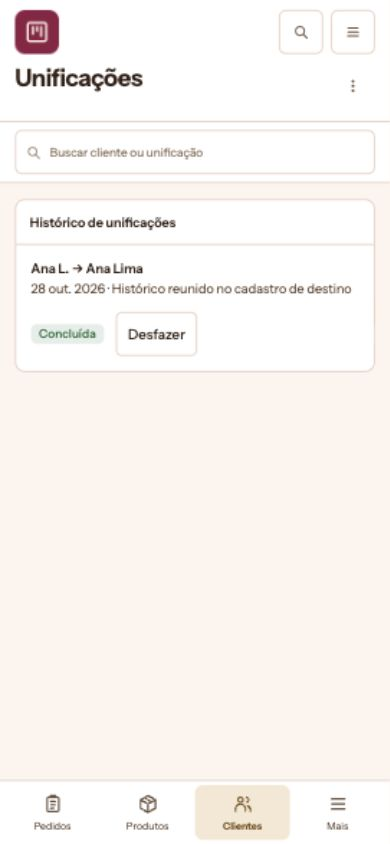
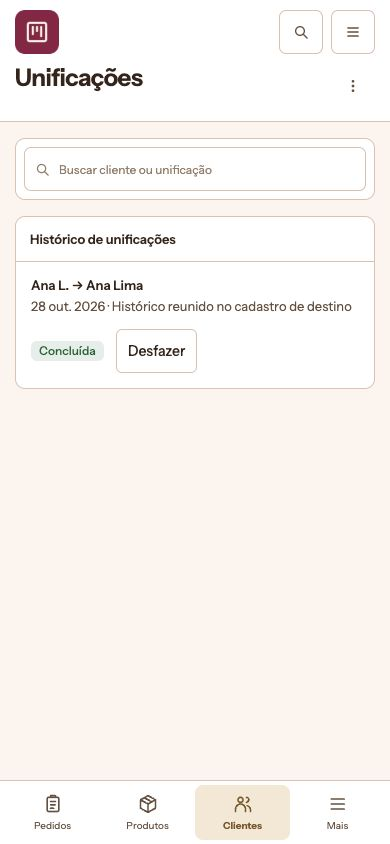
docs: consolidate scrolling search cards and page options in previews

diff --git a/docs/previews/navigation-2026-10-29/preview.js b/docs/previews/navigation-2026-10-29/preview.js
@@ -122,7 +122,7 @@ const state = {
   display:params.get('display')==='grid'?'grid':'list',density:params.get('density')==='compact'?'compact':'comfortable',
   variant:params.get('variant')==='double'?'double':'single',
   view:params.get('view') || (params.get('app')==='compras'?'receiving':'catalog'),
-  toolsFixed:params.get('tools')==='fixed',pageMenu:params.get('pageMenu')==='title'?'title':'header',compareTools:params.get('compareTools')==='1',compareDevice:params.get('device')==='desktop'?'desktop':'mobile',
+  toolsFixed:params.get('tools')==='fixed',pageMenu:params.get('pageMenu')==='header'?'header':'title',compareTools:params.get('compareTools')==='1',compareDevice:params.get('device')==='desktop'?'desktop':'mobile',
   compact:params.has('rail')?params.get('rail')==='compact':params.get('compact')==='1'||matchMedia('(min-width:651px) and (max-width:1100px) and (orientation:landscape)').matches,hidden:params.get('rail')==='hidden',secondary:params.get('options')!=='hidden',
   clean:params.get('clean')==='1',embedded:params.get('embedded')==='1',compare:params.get('compare')==='1'||params.get('compareTools')==='1',
   sort:'name',collection:'all',page:1,localPlacement:params.get('local')==='bottom'?'bottom':'top',desktopQuick:params.get('quick')==='1',desktopDock:params.get('dock')==='1',drawer:false,drawerGroup:null,central:params.get('screen')==='central',trail:null,lastViews:{gestor:'catalog',compras:'receiving'},search:'',filter:'all',closed:new Set(),extraCollections:[],mergeUndone:false,done:new Set(),counted:{},countReasons:{},
@@ -145,7 +145,7 @@ function href(overrides={}){
   const next={toolsFixed:state.toolsFixed,pageMenu:state.pageMenu,compareTools:state.compareTools,compareDevice:state.compareDevice,compact:state.compact,hidden:state.hidden,secondary:state.secondary,adaptive:state.adaptive,display:state.display,density:state.density,app:state.app,variant:state.variant,view:state.view,compare:state.compare,clean:state.clean,embedded:state.embedded,central:state.central,local:state.localPlacement,quick:state.desktopQuick,dock:state.desktopDock,...overrides};
   const q=new URLSearchParams({app:next.app,variant:next.variant,view:next.view,revision:'7b'});
   const scenario=new URLSearchParams(location.search).get('scenario');if(scenario)q.set('scenario',scenario);
-  if(next.toolsFixed)q.set('tools','fixed');if(next.pageMenu==='title')q.set('pageMenu','title');if(next.compareTools)q.set('compareTools','1');if(next.compareTools&&next.compareDevice==='desktop')q.set('device','desktop');q.set('rail',next.hidden?'hidden':next.compact?'compact':'expanded');if(!next.secondary)q.set('options','hidden');
+  if(next.toolsFixed)q.set('tools','fixed');if(next.pageMenu==='header')q.set('pageMenu','header');if(next.compareTools)q.set('compareTools','1');if(next.compareTools&&next.compareDevice==='desktop')q.set('device','desktop');q.set('rail',next.hidden?'hidden':next.compact?'compact':'expanded');if(!next.secondary)q.set('options','hidden');
   if(next.adaptive)q.set('layout','adaptive');if(next.display==='grid')q.set('display','grid');if(next.density==='compact')q.set('density','compact');
   if(next.local==='bottom')q.set('local','bottom');if(next.quick)q.set('quick','1');if(next.dock)q.set('dock','1');
   if(next.clean)q.set('clean','1');if(next.compare)q.set('compare','1');if(next.embedded)q.set('embedded','1');if(next.central)q.set('screen','central');
@@ -233,7 +233,7 @@ function renderSupportBars(){
   $('#app').dataset.view=state.view;
 }
 function showComposition(){
-  openDialog('Composição da página',`<p>Cada faixa tem um trabalho. A navegação rápida leva ao mesmo destino em A e B; a troca de assuntos fica na lateral ou gaveta.</p><label class="field">Faixa de filtro, busca e opções<select id="tools-placement" class="button"><option value="scroll" ${!state.toolsFixed?'selected':''}>Rola com o conteúdo</option><option value="fixed" ${state.toolsFixed?'selected':''}>Fixa abaixo das tabs</option></select></label><label class="field">Opções da página<select id="page-menu-placement" class="button"><option value="header" ${state.pageMenu==='header'?'selected':''}>Junto do menu, no cabeçalho</option><option value="title" ${state.pageMenu==='title'?'selected':''}>Antes do título</option></select></label><label class="field">Recortes do conteúdo<select id="local-placement" class="button"><option value="top" ${state.localPlacement==='top'?'selected':''}>Barra superior secundária</option><option value="bottom" ${state.localPlacement==='bottom'?'selected':''}>Barra inferior secundária</option></select></label><label class="layout-check"><input id="desktop-shortcuts" type="checkbox" ${state.desktopQuick?'checked':''}>Mostrar também os atalhos inferiores no desktop</label><label class="layout-check"><input id="desktop-dock" type="checkbox" ${state.desktopDock?'checked':''}>Experimentar a ação flutuante também no desktop</label><div class="bar-roles"><p><strong>Cabeçalho</strong>Identidade, localização, Central e troca de app.</p><p><strong>Barra superior secundária</strong>Recortes da página atual, sem repetir os destinos da lateral.</p><p><strong>Barra inferior secundária</strong>Paginação e posição na lista; pode receber os recortes em vez do topo.</p><p><strong>Ação flutuante</strong>A próxima ação da tarefa, com seu contexto. No celular, fica acima dos atalhos, sem cobrir o conteúdo.</p><p><strong>Barra inferior principal</strong>Atalhos estáveis para destinos. Um toque, nas duas variantes.</p></div><p class="preview-warning">A ação flutuante aparece na conferência e na contagem. Navegar pelo catálogo não exige um botão de conclusão.</p>`,button('Cancelar','close')+button('Aplicar à comparação','apply-composition','check','gold'));
+  openDialog('Composição da página',`<p>Cada faixa tem um trabalho. A navegação rápida leva ao mesmo destino em A e B; a troca de assuntos fica na lateral ou gaveta.</p><label class="field">Faixa de filtro, busca e opções<select id="tools-placement" class="button"><option value="scroll" ${!state.toolsFixed?'selected':''}>Rola com o conteúdo</option><option value="fixed" ${state.toolsFixed?'selected':''}>Fixa abaixo das tabs</option></select></label><label class="field">Opções da página<select id="page-menu-placement" class="button"><option value="header" ${state.pageMenu==='header'?'selected':''}>Junto do menu, no cabeçalho</option><option value="title" ${state.pageMenu==='title'?'selected':''}>Linha do título, na extremidade direita</option></select></label><label class="field">Recortes do conteúdo<select id="local-placement" class="button"><option value="top" ${state.localPlacement==='top'?'selected':''}>Barra superior secundária</option><option value="bottom" ${state.localPlacement==='bottom'?'selected':''}>Barra inferior secundária</option></select></label><label class="layout-check"><input id="desktop-shortcuts" type="checkbox" ${state.desktopQuick?'checked':''}>Mostrar também os atalhos inferiores no desktop</label><label class="layout-check"><input id="desktop-dock" type="checkbox" ${state.desktopDock?'checked':''}>Experimentar a ação flutuante também no desktop</label><div class="bar-roles"><p><strong>Cabeçalho</strong>Identidade, localização, Central e troca de app.</p><p><strong>Barra superior secundária</strong>Recortes da página atual, sem repetir os destinos da lateral.</p><p><strong>Barra inferior secundária</strong>Paginação e posição na lista; pode receber os recortes em vez do topo.</p><p><strong>Ação flutuante</strong>A próxima ação da tarefa, com seu contexto. No celular, fica acima dos atalhos, sem cobrir o conteúdo.</p><p><strong>Barra inferior principal</strong>Atalhos estáveis para destinos. Um toque, nas duas variantes.</p></div><p class="preview-warning">A ação flutuante aparece na conferência e na contagem. Navegar pelo catálogo não exige um botão de conclusão.</p>`,button('Cancelar','close')+button('Aplicar à comparação','apply-composition','check','gold'));
 }
 function renderHead(){
   const group=currentGroup(),app=applications[state.app],info=viewInfo[state.view];
@@ -241,7 +241,7 @@ function renderHead(){
   if(state.adaptive){
     const hasOptions=(pageActions()&&!pageActions().includes('gold'))||FLOW_CATALOG.some(f=>f.app===state.app&&f.view===state.view);
     const options=hasOptions?`<button class="icon-button mobile-page-options page-flow-options" data-action="page-options" aria-label="Mais opções da página" aria-haspopup="dialog">${icon('dots')}</button>`:'';
-    $('#pagehead').innerHTML=`<div class="head-top suite-header"><button class="icon-button current-app-home" data-action="central" aria-label="${app.label}: voltar à Central de apps" title="${app.label}: Central de apps">${appMark(state.app)}</button><button class="button desktop-control navigation-manager" data-action="nav-controls" aria-label="Ajustar menus laterais" aria-haspopup="dialog">${icon('panel')}Menus laterais</button><div class="head-spacer"></div><button class="icon-button" data-action="search-suite" aria-label="Buscar destino na suíte">${icon('search')}</button><button class="icon-button mobile-menu" data-action="drawer" aria-label="Abrir navegação">${icon('menu')}</button>${state.pageMenu==='header'?options:''}</div><div class="heading-row"><div class="page-title-group">${state.pageMenu==='title'?options:''}<h1>${info[0]}</h1></div><div class="page-actions">${pageActions()}${desktopTaskAction()}</div></div>${state.trail?`<div class="return-context"><button data-action="return-context">${icon('left')}Voltar a ${esc(state.trail.label)}</button></div>`:''}`;return;
+    $('#pagehead').innerHTML=`<div class="head-top suite-header"><button class="icon-button current-app-home" data-action="central" aria-label="${app.label}: voltar à Central de apps" title="${app.label}: Central de apps">${appMark(state.app)}</button><button class="button desktop-control navigation-manager" data-action="nav-controls" aria-label="Ajustar menus laterais" aria-haspopup="dialog">${icon('panel')}Menus laterais</button><div class="head-spacer"></div><button class="icon-button" data-action="search-suite" aria-label="Buscar destino na suíte">${icon('search')}</button><button class="icon-button mobile-menu" data-action="drawer" aria-label="Abrir navegação">${icon('menu')}</button>${state.pageMenu==='header'?options:''}</div><div class="heading-row"><div class="page-title-group"><h1>${info[0]}</h1></div><div class="page-actions">${pageActions()}${desktopTaskAction()}</div>${state.pageMenu==='title'?options:''}</div>${state.trail?`<div class="return-context"><button data-action="return-context">${icon('left')}Voltar a ${esc(state.trail.label)}</button></div>`:''}`;return;
   }
   $('#pagehead').innerHTML=`<div class="head-top"><button class="icon-button mobile-menu" data-action="drawer" aria-label="Abrir navegação">${icon('menu')}</button><button class="icon-button desktop-control" data-action="compact" aria-label="${state.compact?'Expandir':'Compactar'} barra principal">${icon('panel')}</button><button class="app-switch" data-action="apps" aria-label="${app.label}: trocar app ou voltar à Central">${icon(app.symbol)}<span>${app.label}</span>${icon('down')}</button><div class="breadcrumb"><span class="desktop-breadcrumb">${app.label}</span>${icon('arrow')}<span>${group.label}</span>${group.children.length>1?icon('arrow')+`<span>${group.children.find(c=>c[0]===state.view)[1]}</span>`:''}</div>${group.children.length>1?`<div class="context-switch"><button class="button" data-action="context-mobile" aria-label="Opções de ${group.label}"><span>${group.label}</span>${icon('down')}</button></div>`:''}<div class="head-spacer"></div><div class="head-utility">${secondaryControl}<button class="icon-button desktop-control" data-action="hide" aria-label="${state.hidden?'Mostrar':'Ocultar'} barra principal">${icon('menu')}</button><button class="icon-button" data-action="search-suite" aria-label="Buscar na suíte">${icon('search')}</button></div></div><div class="heading-row"><div><h1>${info[0]}</h1><p>${info[1]}</p></div><div class="page-actions">${pageActions()}${desktopTaskAction()}</div></div>${state.trail?`<div class="return-context"><button data-action="return-context">${icon('left')}Voltar a ${esc(state.trail.label)}</button><span>Contexto de origem preservado</span></div>`:''}`;
 }
@@ -533,7 +533,7 @@ window.addEventListener('message',event=>{
 let adaptiveMobile=mobileNavigation();
 let narrowLayout=matchMedia('(min-width:651px) and (max-width:1100px) and (orientation:landscape)').matches;
 window.addEventListener('resize',()=>{const mobile=mobileNavigation();if(state.adaptive&&mobile!==adaptiveMobile){adaptiveMobile=mobile;state.drawer=false;state.drawerGroup=null;render();}const next=matchMedia('(min-width:651px) and (max-width:1100px) and (orientation:landscape)').matches;if(next!==narrowLayout){narrowLayout=next;if(!state.compare&&!state.central){renderNavigation();renderHead();}}});
-window.addEventListener('popstate',()=>{const q=new URLSearchParams(location.search);state.app=q.get('app')==='compras'?'compras':'gestor';state.variant=q.get('variant')==='double'?'double':'single';state.view=q.get('view')||applications[state.app].home;state.adaptive=q.get('layout')==='adaptive'||!q.has('variant')||(q.get('clean')==='1'&&q.get('embedded')!=='1');state.display=q.get('display')==='grid'?'grid':'list';state.density=q.get('density')==='compact'?'compact':'comfortable';state.clean=q.get('clean')==='1';state.hidden=q.get('rail')==='hidden';state.compact=q.has('rail')?q.get('rail')==='compact':q.get('compact')==='1'||narrowLayout;state.secondary=q.get('options')!=='hidden';state.toolsFixed=q.get('tools')==='fixed';state.pageMenu=q.get('pageMenu')==='title'?'title':'header';state.compareTools=q.get('compareTools')==='1';state.compareDevice=q.get('device')==='desktop'?'desktop':'mobile';state.compare=q.get('compare')==='1'||state.compareTools;state.central=q.get('screen')==='central';state.localPlacement=q.get('local')==='bottom'?'bottom':'top';state.desktopQuick=q.get('quick')==='1';state.desktopDock=q.get('dock')==='1';state.trail=null;state.drawer=false;if(!applications[state.app].groups.some(g=>g.children.some(c=>c[0]===state.view)))state.view=applications[state.app].home;render();});
+window.addEventListener('popstate',()=>{const q=new URLSearchParams(location.search);state.app=q.get('app')==='compras'?'compras':'gestor';state.variant=q.get('variant')==='double'?'double':'single';state.view=q.get('view')||applications[state.app].home;state.adaptive=q.get('layout')==='adaptive'||!q.has('variant')||(q.get('clean')==='1'&&q.get('embedded')!=='1');state.display=q.get('display')==='grid'?'grid':'list';state.density=q.get('density')==='compact'?'compact':'comfortable';state.clean=q.get('clean')==='1';state.hidden=q.get('rail')==='hidden';state.compact=q.has('rail')?q.get('rail')==='compact':q.get('compact')==='1'||narrowLayout;state.secondary=q.get('options')!=='hidden';state.toolsFixed=q.get('tools')==='fixed';state.pageMenu=q.get('pageMenu')==='header'?'header':'title';state.compareTools=q.get('compareTools')==='1';state.compareDevice=q.get('device')==='desktop'?'desktop':'mobile';state.compare=q.get('compare')==='1'||state.compareTools;state.central=q.get('screen')==='central';state.localPlacement=q.get('local')==='bottom'?'bottom':'top';state.desktopQuick=q.get('quick')==='1';state.desktopDock=q.get('dock')==='1';state.trail=null;state.drawer=false;if(!applications[state.app].groups.some(g=>g.children.some(c=>c[0]===state.view)))state.view=applications[state.app].home;render();});
 render();
 new ResizeObserver(()=>requestAnimationFrame(publishToolsMetrics)).observe($('#content'));
 

diff --git a/docs/previews/navigation-2026-10-29/preview.css b/docs/previews/navigation-2026-10-29/preview.css
@@ -207,3 +207,6 @@ svg{stroke-width:2}.tag{border-radius:6px;line-height:16px}
 @media(max-width:1100px){.tools-dock{--tools-gutter:20px}}
 @media(min-width:901px), (min-width:651px) and (orientation:landscape){.application[data-compact=true] .primary .navlabel,.application[data-compact=true] .primary .utility>span:not(.navcount){display:none}.application[data-compact=true] .primary .navitem,.application[data-compact=true] .primary .utility{min-height:48px;justify-content:center;padding:10px 0;gap:0}.application[data-compact=true] .primary .navitem svg,.application[data-compact=true] .primary .utility svg{width:20px;height:20px}}
 @media(max-width:650px), (max-width:900px) and (orientation:portrait){.tools-dock{--tools-gutter:15px}.tools-comparison.compare-phone .comparison-grid{grid-template-columns:minmax(0,390px)}.tools-comparison .comparison-head .controls{max-width:100%;width:100%}.tools-comparison .comparison-head .controls select{flex:1;min-width:0;max-width:100%;min-height:44px}.tools-comparison .comparison-head .controls .button{min-height:44px}.navigation-manager{display:none}.tools-dock>.toolbar>.search{min-width:0}.page-title-group>.icon-button{width:44px;height:44px}}
+
+/* Opções da página encerram a linha do título, após a ação principal. */
+.adaptive .heading-row{gap:10px}.adaptive .heading-row>.page-flow-options{flex-shrink:0;margin-left:0}.adaptive .heading-row .page-actions:empty{display:none}

diff --git a/docs/previews/navigation-2026-10-29/verification.md b/docs/previews/navigation-2026-10-29/verification.md
@@ -295,3 +295,9 @@ Faixa fixa ocupa uma região própria abaixo das tabs. Faixa rolável é um card
 Desktop: controle único “Menus laterais”, com escolhas independentes para assuntos (expandido, ícones, oculto) e opções do assunto (visíveis, recolhidas). Modos serializados na URL; sem alternância cíclica entre regiões. Inspeção confirmou larguras de 190/76/0 px na primária e 218/0 px na secundária.
 
 Evidências: `captures/tools-fixed-vs-scroll-mobile.jpg` e `captures/tools-scroll-card-mobile.jpg`. Nenhum código de produto, Core ou deploy alterado.
+
+## Consolidação aprovada nas prévias
+
+Busca em card rolável é o padrão mobile de Gestor e Compras. Menu da página na extremidade direita da linha do título, depois da ação principal. Variante de cabeçalho permanece apenas como experimento explícito (`pageMenu=header`).
+
+Revisadas as 20 telas em 390 e 320 px: nenhum transbordamento horizontal nos cabeçalhos ou cards de ferramentas; nenhuma ferramenta no dock fixo nos destinos padrão; opções da página no último lugar da linha quando disponíveis. Evidência em `toolbar-consistency-evidence.json`. Galeria mobile das 20 telas atualizada. Telas sem busca não recebem card vazio. Comparação histórica da faixa fixa permanece acessível como experimento, sem alterar o padrão aprovado.
